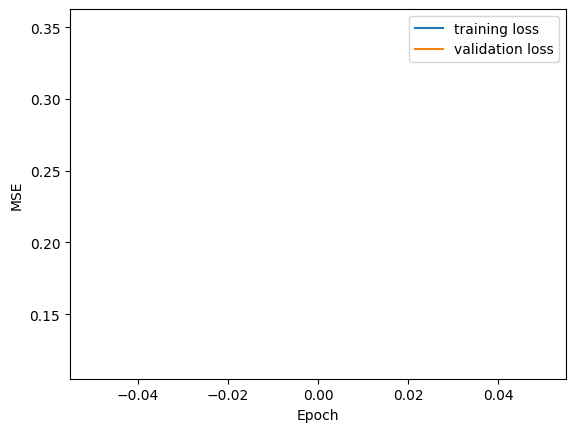
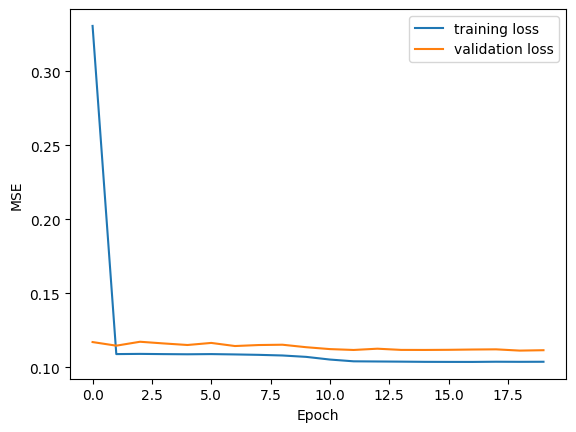
plot fix

diff --git a/train.py b/train.py
@@ -52,6 +52,7 @@ def predict(model, loader, scaler, plot_name=''):
 		plt.legend()
 		plt.savefig(f'plots/{plot_name}_feature{i}.png', bbox_inches='tight')
 		plt.show()
+		plt.close()
 
 	return rmse
 
@@ -71,7 +72,7 @@ if __name__ == '__main__':
 
 	# Train params
 	parser.add_argument('--test_size', type=float, default=0.2)
-	parser.add_argument('--epochs', type=int, default=1)
+	parser.add_argument('--epochs', type=int, default=30)
 	parser.add_argument('--bs', type=int, default=64)
 	parser.add_argument('--lr', type=int, default=1e-4)
 	parser.add_argument('--dropout', type=float, default=0.0)
@@ -173,6 +174,7 @@ if __name__ == '__main__':
 	plt.legend()
 	plt.savefig(f'plots/losses.png', bbox_inches='tight')
 	plt.show()
+	plt.close()
 
 	# Predict
 	rmse_train = predict(model, train_loader, scaler, plot_name='train_preds')
